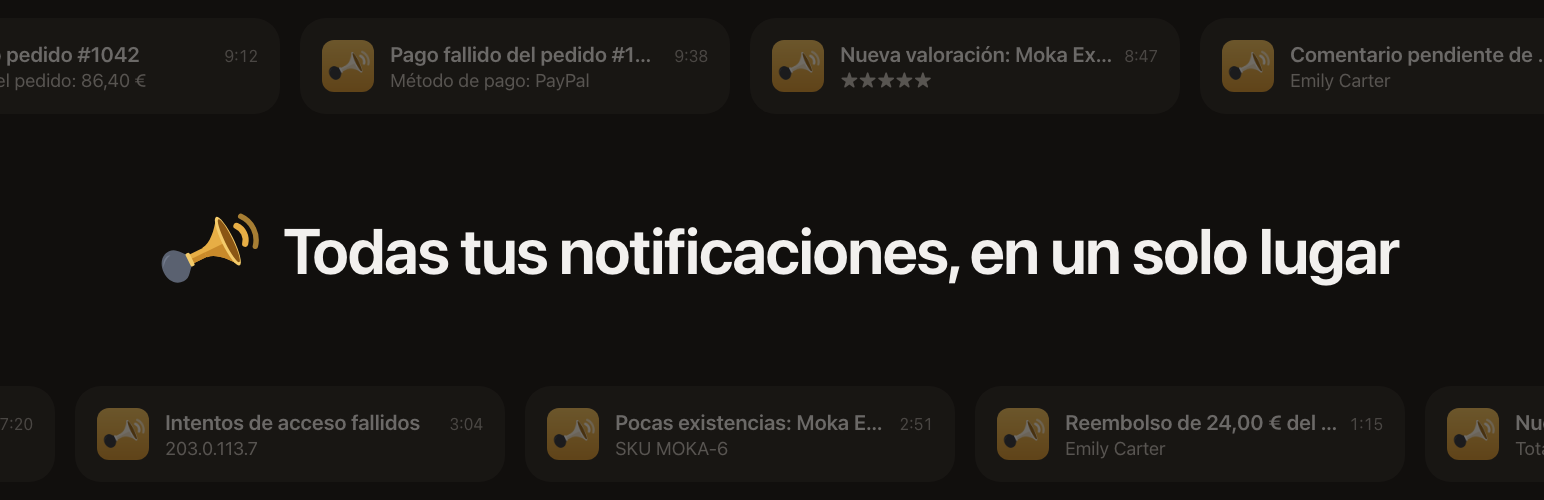
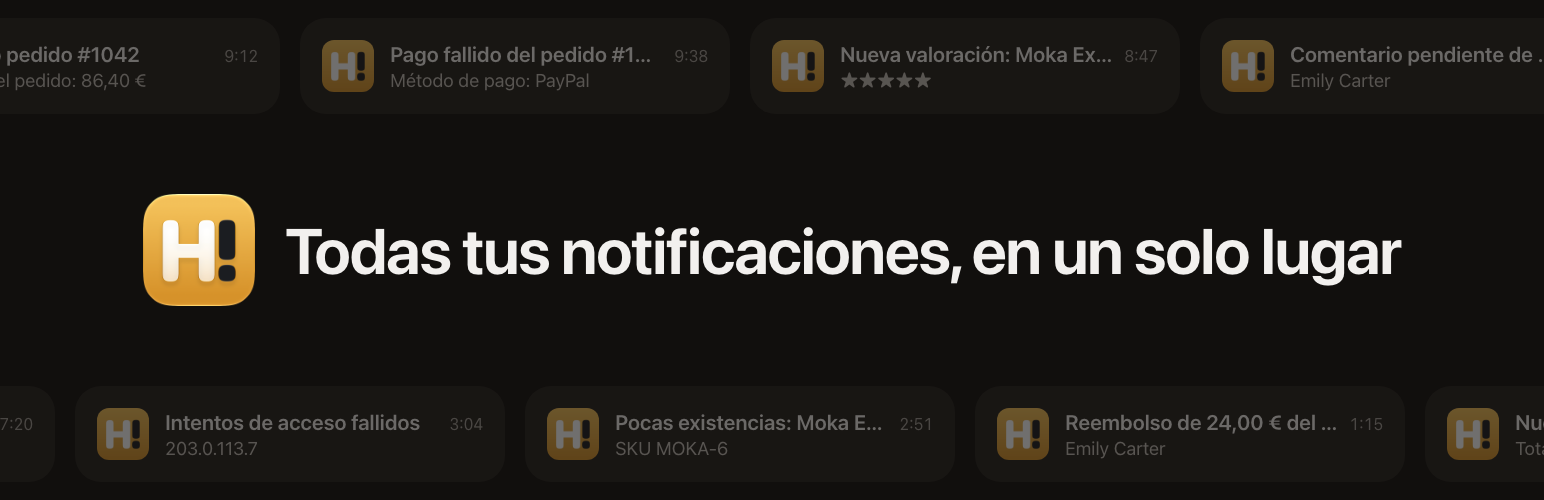
"H!" at the centre of the share images, in the headers and on the WordPress and n8n art

diff --git a/README.md b/README.md
@@ -191,5 +191,8 @@ The version lives in `honk-me.php` (header `Version` and `HONK_VERSION`) and in 
    assets from `.wordpress-org/`) with `10up/action-wordpress-plugin-deploy`, and attaches the
    zip to the GitHub release.
 
+The directory's icon and banners in `.wordpress-org/` come from the monorepo's
+`design/brand/plugin_icons.py`, which copies the live app icon's set there.
+
 Secrets (environment `wordpress-org`): `SVN_USERNAME`, `SVN_PASSWORD` (the WordPress.org
 account's SVN password, set in its profile).
